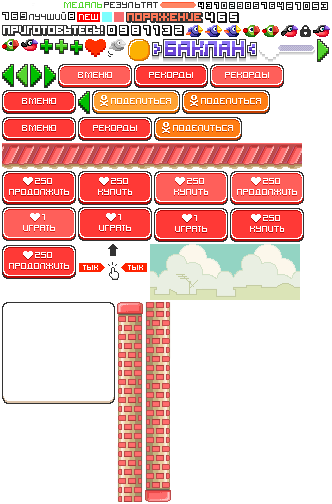
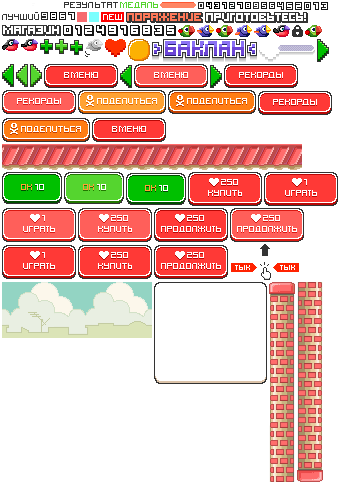
fd

diff --git a/flappy.js b/flappy.js
@@ -124,6 +124,27 @@ function init() {
 			'9' : 'font_sc9.png'
 		});
 
+		registerFont(game, 'store', 'gui', {
+			'info' : {
+				face : 'store',
+				size : 11,
+				lineHeight: 11,
+				xSpacing : -1,
+				ySpacing : 1
+			},
+			'0' : 'font_sc0.png',
+			'1' : 'font_sc1.png',
+			'2' : 'font_sc2.png',
+			'3' : 'font_sc3.png',
+			'4' : 'font_sc4.png',
+			'5' : 'font_sc5.png',
+			'6' : 'font_sc6.png',
+			'7' : 'font_sc7.png',
+			'8' : 'font_sc8.png',
+			'9' : 'font_sc9.png'
+		});
+
+
 		registerFont(game, 'score_s', 'gui', {
 			'info' : {
 				face : 'score_s',
@@ -438,7 +459,7 @@ function init() {
 		this.add(game.add.image(1, 1, 'gui', 'bank_top.png'));
 
 		this.add(add_button(game, 63, 2, 'btn_plus', function () {
-			// TODO
+			game.state.start('store');
 		}));
 
 		var balance = new AlignText(game, 12, 5, 'bank_time', 5, 'center');
@@ -529,7 +550,7 @@ function init() {
 				hide_to_state(game, 'game');
 			});
 			buy = add_button(game, 38, 137, 'btn_buy', function () {
-				// TODO
+				game.state.start('store');
 			});
 			add_button(game, 38, 174, 'btn_top', function () {
 				game.state.start('top');
@@ -544,6 +565,31 @@ function init() {
 			}
 
 			updateBird();
+		}
+	}
+
+	function StoreState(game) {
+		this.create = function () {
+			game.add.image(47, 13, 'gui', 'txt_store.png');
+			
+			game.add.existing(new AlignText(game, 41, 50, 'bank_add', 7, 'right')).text = '1200';
+			game.add.image(45, 46, 'gui', 'ico_heart.png');
+			add_button(game, 73, 39, 'btn_buy1', function () {			
+			});
+
+			game.add.existing(new AlignText(game, 41, 93, 'bank_add', 7, 'right')).text = '275';
+			game.add.image(45, 89, 'gui', 'ico_heart.png');
+			add_button(game, 73, 82, 'btn_buy2', function () {			
+			});
+
+			game.add.existing(new AlignText(game, 41, 135, 'bank_add', 7, 'right')).text = '50';
+			game.add.image(45, 131, 'gui', 'ico_heart.png');
+			add_button(game, 73, 124, 'btn_buy3', function () {			
+			});
+
+			add_button(game, 38, 174, 'btn_menu', function () {
+				game.state.start('menu');
+			})
 		}
 	}
 
@@ -771,6 +817,7 @@ function init() {
 
 		game.state.add('preload', PreloadState, true);
 		game.state.add('menu', MenuState);
+		game.state.add('store', StoreState);
 		game.state.add('game', GameState);
 	})()
 }
